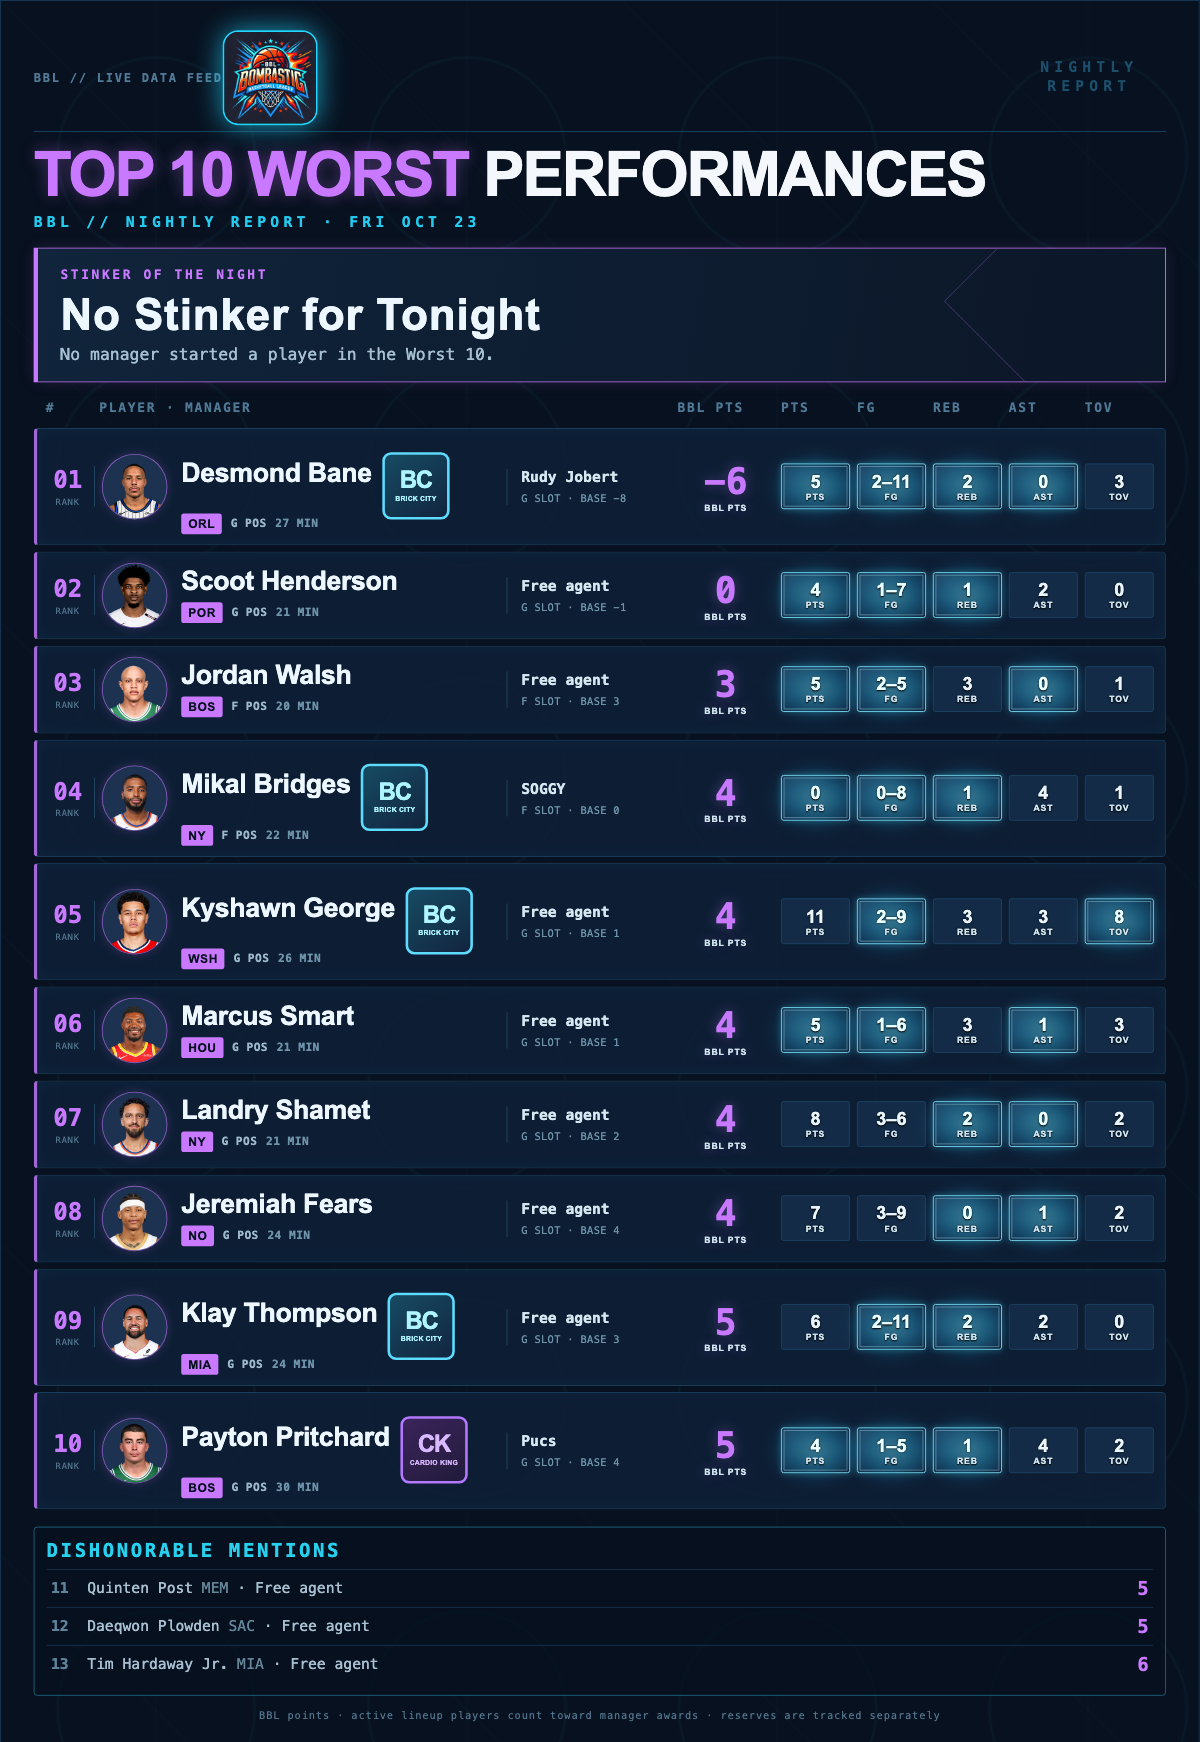
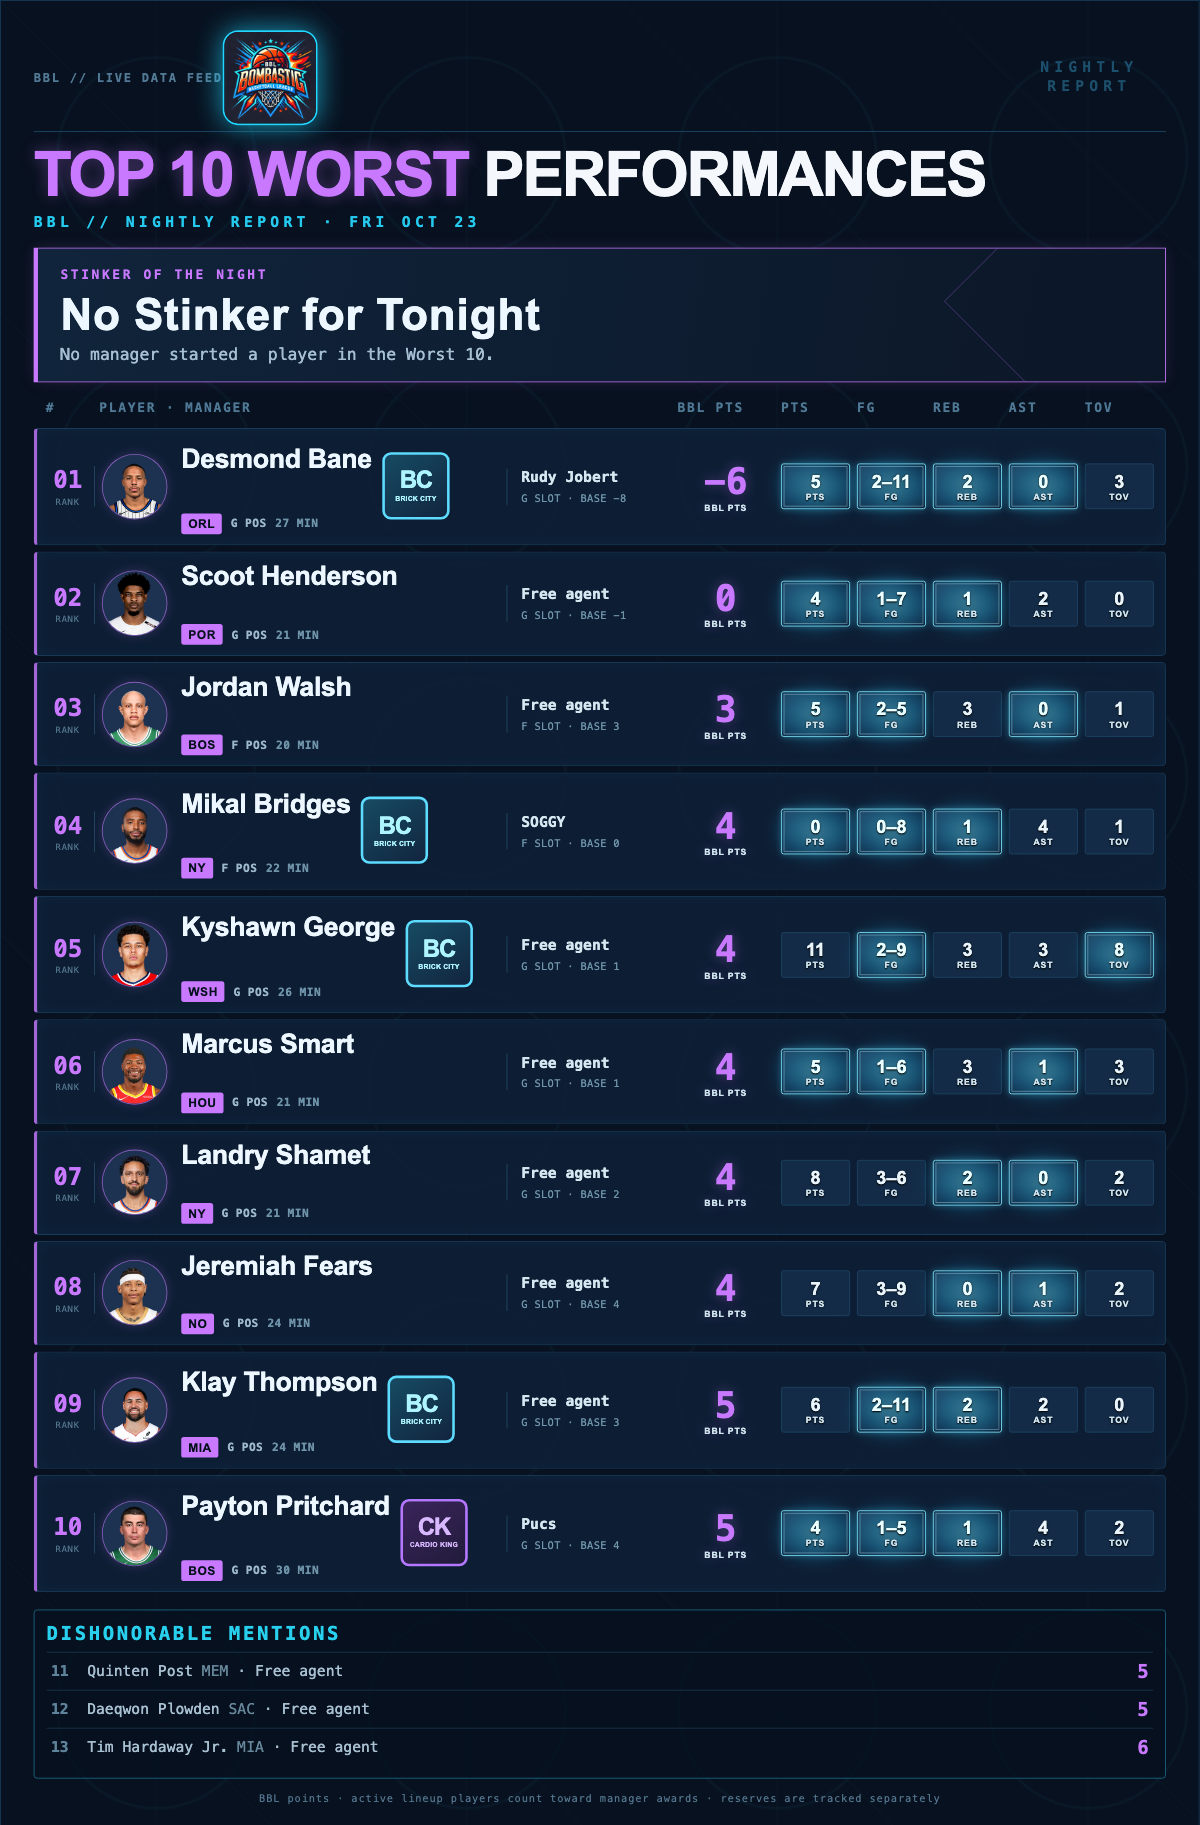
Reserve two-line name space for every player

diff --git a/bbl/social_cards.py b/bbl/social_cards.py
@@ -149,7 +149,7 @@ h1{{font-size:62px;line-height:.9;margin:0;color:#f4f7fb;letter-spacing:-2px;tex
 .label{{font:700 14px monospace;letter-spacing:3px;color:{accent};text-transform:uppercase}}.award h2{{font-size:42px;letter-spacing:1px;margin:7px 0 3px}}.award p{{font:17px monospace;margin:0;color:#a6c0d2}}
 .cols,.row{{display:grid;grid-template-columns:54px 1fr 112px {stat_columns};gap:8px;align-items:center}}.cols{{padding:0 14px 6px;color:#4e7894;font:700 13px monospace;letter-spacing:2px;text-transform:uppercase}}
 .row{{background:rgba(14,31,53,.94);border:1px solid #1b3c5b;border-left:4px solid {accent}cc;border-radius:5px;padding:9px 12px;margin:6px 0;box-shadow:inset 0 0 18px rgba(30,170,230,.05)}}.row:hover{{border-color:{accent}}}.rank{{font:700 24px monospace;color:{accent};text-align:center;border-right:1px solid #244965;padding-right:8px}}.rank small{{display:block;font:9px monospace;color:#52758d;letter-spacing:1px;margin-top:3px}}
- .who{{display:grid;grid-template-columns:70px minmax(0,1fr) 190px;gap:12px;align-items:center;min-width:0}}.who b{{display:-webkit-box;font-size:24px;line-height:1.02;letter-spacing:-.4px;white-space:normal;overflow:hidden;text-overflow:clip;-webkit-line-clamp:2;-webkit-box-orient:vertical}}.headshot{{width:66px;height:66px;object-fit:cover;border-radius:50%;background:#1d3150;border:1px solid {accent}99;box-shadow:0 0 12px {accent}33}}.headshot.placeholder{{background:linear-gradient(135deg,#162c47,#0a1627)}}.name-line{{display:flex;align-items:center;gap:12px;min-width:0}}.name-line b{{min-width:0}}.player-meta{{display:flex;align-items:center;gap:8px;margin-top:6px;white-space:nowrap}}.who .team{{display:inline-block;color:#07111e;background:{accent};border-radius:3px;padding:3px 7px;font:800 12px Arial,sans-serif;letter-spacing:.6px}}.position,.minutes{{color:#9db9ca;font:700 12px monospace;letter-spacing:.5px}}.minutes{{color:#6f94aa}}.badge{{display:inline-flex;align-self:center;flex:0 0 auto;width:78px;height:78px;align-items:center;justify-content:center;flex-direction:column;gap:3px;padding:5px;border:3px solid;border-radius:10px;font:900 10px Arial,sans-serif;letter-spacing:.2px;white-space:normal;text-align:center;box-shadow:inset 0 0 15px #ffffff18,0 0 16px currentColor77;transform:translateY(15px)}}.badge i{{display:block;background:none;font:900 28px/27px Arial,sans-serif;font-style:normal;letter-spacing:-1.5px}}.badge strong{{display:block;font:900 8px/9px Arial,sans-serif;letter-spacing:.2px;max-width:66px}}.badge-triple{{color:#74ecff;border-color:#35d8ff;background:linear-gradient(145deg,#123d59,#0b203b)}}.badge-double{{color:#ffd36b;border-color:#ffad32;background:linear-gradient(145deg,#553516,#2b1b25)}}.badge-cardio{{color:#d8b8ff;border-color:#b477ff;background:linear-gradient(145deg,#3b245b,#211b3b)}}.badge-brick{{color:#aef5ff;border-color:#5ddcff;background:linear-gradient(145deg,#164b63,#12253f)}}.details{{min-width:0;border-left:1px solid #244965;padding-left:14px}}.details small{{display:block;color:#d5e7f0;font:700 15px monospace;white-space:nowrap;overflow:hidden;text-overflow:ellipsis}}.details em{{display:block;color:#6f94aa;font:11px monospace;font-style:normal;margin-top:7px;letter-spacing:.4px;white-space:nowrap}}
+ .who{{display:grid;grid-template-columns:70px minmax(0,1fr) 190px;gap:12px;align-items:center;min-width:0}}.who b{{display:-webkit-box;font-size:24px;line-height:1.02;letter-spacing:-.4px;white-space:normal;overflow:hidden;text-overflow:clip;-webkit-line-clamp:2;-webkit-box-orient:vertical;min-height:2.04em}}.headshot{{width:66px;height:66px;object-fit:cover;border-radius:50%;background:#1d3150;border:1px solid {accent}99;box-shadow:0 0 12px {accent}33}}.headshot.placeholder{{background:linear-gradient(135deg,#162c47,#0a1627)}}.name-line{{display:flex;align-items:center;gap:12px;min-width:0;min-height:2.04em}}.name-line b{{min-width:0}}.player-meta{{display:flex;align-items:center;gap:8px;margin-top:6px;white-space:nowrap}}.who .team{{display:inline-block;color:#07111e;background:{accent};border-radius:3px;padding:3px 7px;font:800 12px Arial,sans-serif;letter-spacing:.6px}}.position,.minutes{{color:#9db9ca;font:700 12px monospace;letter-spacing:.5px}}.minutes{{color:#6f94aa}}.badge{{display:inline-flex;align-self:center;flex:0 0 auto;width:78px;height:78px;align-items:center;justify-content:center;flex-direction:column;gap:3px;padding:5px;border:3px solid;border-radius:10px;font:900 10px Arial,sans-serif;letter-spacing:.2px;white-space:normal;text-align:center;box-shadow:inset 0 0 15px #ffffff18,0 0 16px currentColor77;transform:translateY(15px)}}.badge i{{display:block;background:none;font:900 28px/27px Arial,sans-serif;font-style:normal;letter-spacing:-1.5px}}.badge strong{{display:block;font:900 8px/9px Arial,sans-serif;letter-spacing:.2px;max-width:66px}}.badge-triple{{color:#74ecff;border-color:#35d8ff;background:linear-gradient(145deg,#123d59,#0b203b)}}.badge-double{{color:#ffd36b;border-color:#ffad32;background:linear-gradient(145deg,#553516,#2b1b25)}}.badge-cardio{{color:#d8b8ff;border-color:#b477ff;background:linear-gradient(145deg,#3b245b,#211b3b)}}.badge-brick{{color:#aef5ff;border-color:#5ddcff;background:linear-gradient(145deg,#164b63,#12253f)}}.details{{min-width:0;border-left:1px solid #244965;padding-left:14px}}.details small{{display:block;color:#d5e7f0;font:700 15px monospace;white-space:nowrap;overflow:hidden;text-overflow:ellipsis}}.details em{{display:block;color:#6f94aa;font:11px monospace;font-style:normal;margin-top:7px;letter-spacing:.4px;white-space:nowrap}}
 .score{{color:{accent};font:800 31px monospace;text-align:center;text-shadow:0 0 15px {accent}55}}.score small,.stat small{{display:block;font:8px monospace;color:#7394aa;letter-spacing:1px}}.stat{{position:relative;z-index:1;background:#132b47;border:1px solid #1d4564;border-radius:3px;text-align:center;padding:5px 2px;font:700 16px monospace;overflow:visible;isolation:isolate}}.stat.hot{{border:2px solid #ffad32;box-shadow:0 0 5px #ffb000,0 0 15px #ff4b1f99;color:#fff8dd;background:linear-gradient(180deg,#5b2417,#261925)}}.stat.hot:before{{content:"";position:absolute;z-index:-1;left:-8px;right:-8px;top:-15px;bottom:-9px;background:linear-gradient(150deg,#ffd45a 0 10%,transparent 11% 22%,#ff7a18 23% 35%,transparent 36% 49%,#ff3219 50% 64%,transparent 65% 78%,#ff9b20 79% 90%,transparent 91%);clip-path:polygon(0 100%,3% 54%,16% 68%,18% 20%,29% 52%,42% 0,53% 49%,66% 14%,75% 53%,89% 5%,94% 59%,100% 35%,100% 100%);filter:drop-shadow(0 0 8px #ff4b1f);pointer-events:none}}.stat.hot:after{{content:"";position:absolute;inset:2px;border:1px solid #ffd36b99;background:linear-gradient(180deg,transparent,#ff5a1a33);pointer-events:none}}.stat.cold{{border:2px solid #b9fbff;box-shadow:0 0 6px #b9fbff,0 0 18px #28cfff99;color:#edffff;background:linear-gradient(135deg,#d8ffff 0 4%,#3caed2 6% 12%,#153b5b 13% 82%,#0a223b 83%)}}.stat.cold:before{{content:"";position:absolute;z-index:-1;inset:-7px;background:linear-gradient(135deg,#dfffff,#55e9ff 20%,#135b88 48%,#a9f8ff 72%,#1b719c);clip-path:polygon(0 8%,18% 15%,28% 0,43% 13%,59% 3%,74% 17%,100% 7%,88% 31%,100% 50%,87% 66%,100% 93%,76% 84%,63% 100%,48% 87%,28% 100%,19% 85%,0 94%,11% 69%,0 51%,12% 32%);filter:drop-shadow(0 0 7px #46eaff);pointer-events:none}}.stat.cold:after{{content:"";position:absolute;inset:2px;background:linear-gradient(125deg,transparent 27%,#e7ffff99 28% 31%,transparent 32% 56%,#bdfaff77 57% 60%,transparent 61%);pointer-events:none}}.stat span{{position:relative;z-index:1}}.stat small{{position:relative;z-index:1}}.stat:not(.hot):not(.cold) span{{color:#e9f4fb}}.stat:not(.hot):not(.cold){{color:#fff}}
 .section{{border:1px solid #1c6682;border-radius:4px;margin-top:18px;padding:13px;background:rgba(5,17,31,.72)}}.section h3{{color:#28d0ed;font:700 19px monospace;letter-spacing:3px;margin:0 0 8px}}.mention{{display:grid;grid-template-columns:42px 1fr 70px;align-items:center;border-top:1px solid #17354e;padding:8px 4px;color:#a8c0d1;font:15px monospace}}.mention b{{color:#5e839a}}.mention i{{font-style:normal;color:#66869a}}.mention strong{{color:{accent};text-align:right;font:700 20px monospace}}
  footer{{margin-top:18px;text-align:center;color:#52758d;font:11px monospace;letter-spacing:1px}}
